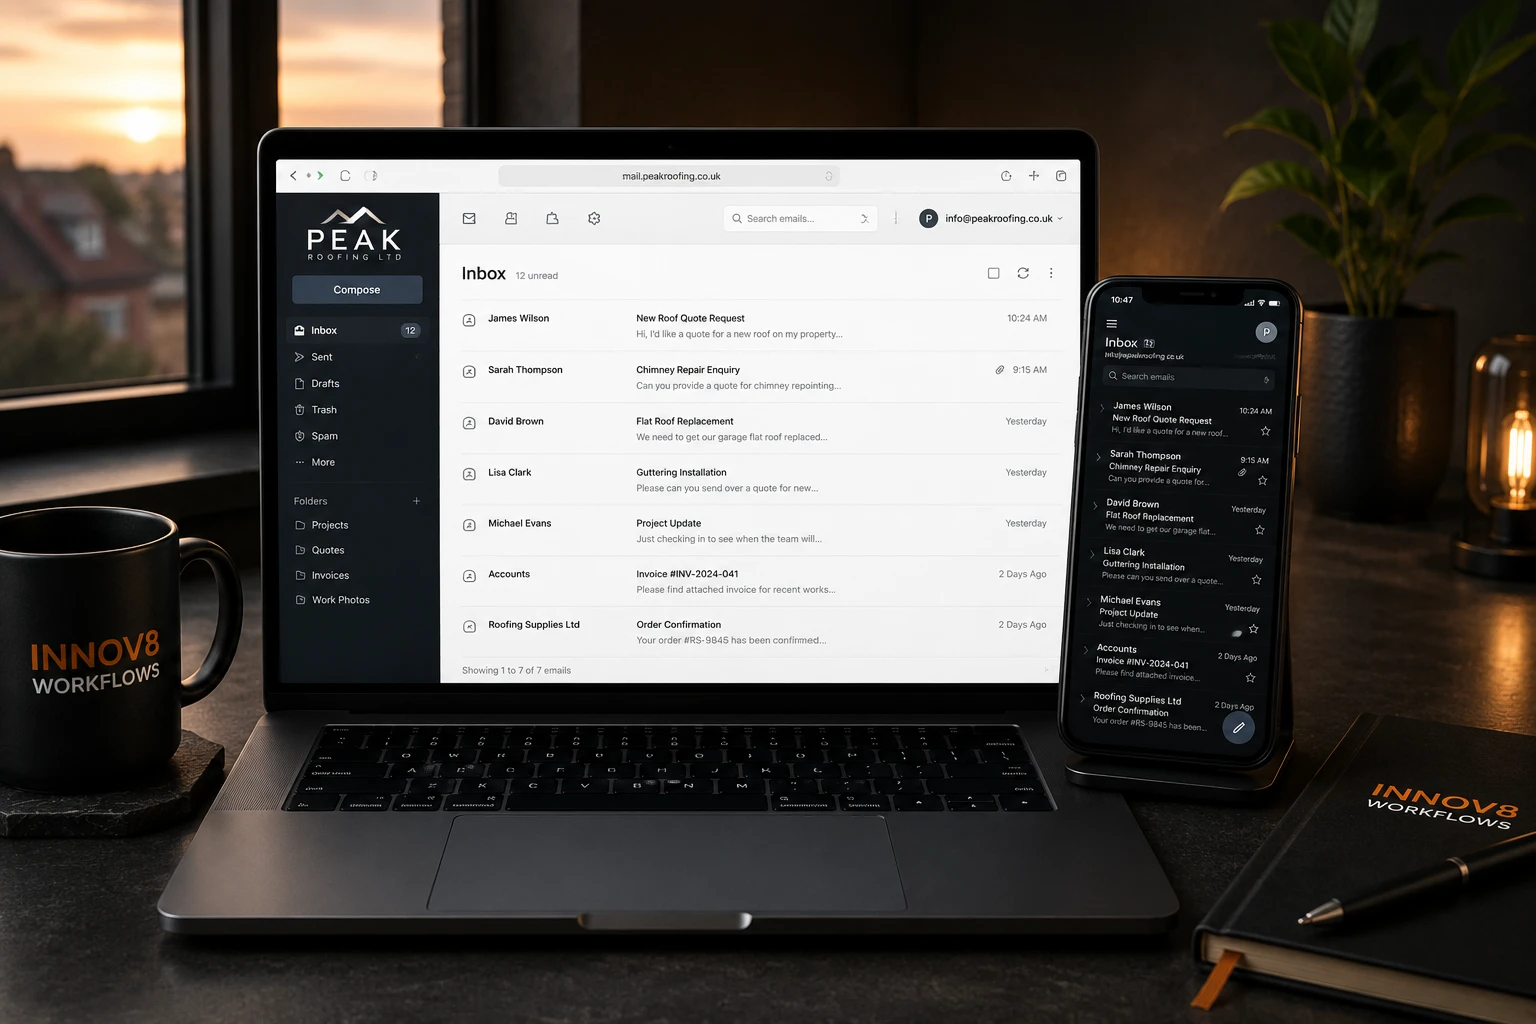
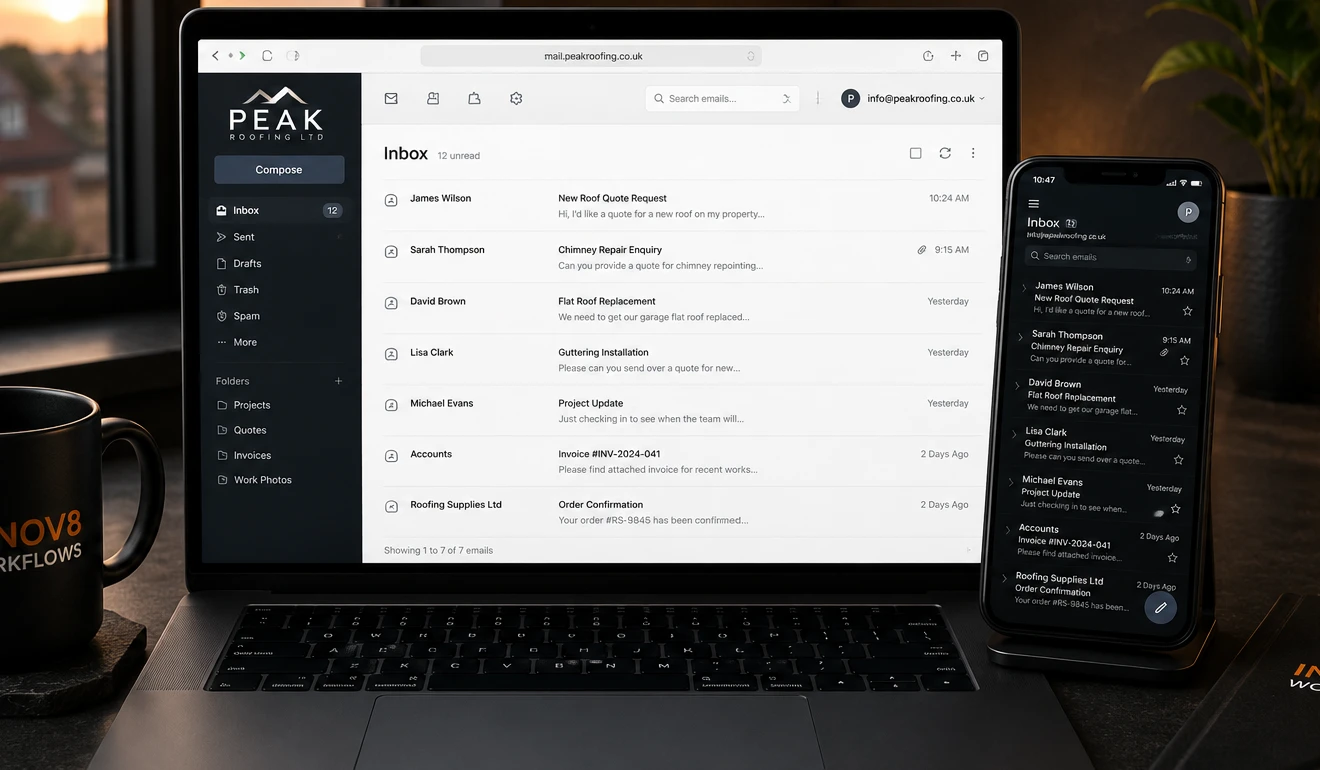
Services: crop email-hosting image so the inbox is readable
Tighten the email-hosting image onto the laptop and phone, cropping out
the wide shot's dead space, so the emails are actually visible at the
block's display size. Re-encoded webp to 1320x770 (102KB); updated the
img width/height to match.

diff --git a/services.html b/services.html
@@ -561,7 +561,7 @@ footer { border-top: 1px solid var(--border); padding: 48px; display: flex; alig
     <a href="consultancy.html#contact" class="service-link">Book a free consultation →</a>
   </div>
   <div class="service-media">
-    <img src="services-media/email-hosting-laptop.webp" width="1536" height="1024" loading="lazy" alt="Professional branded email hosting set up by Innov8 Workflows"/>
+    <img src="services-media/email-hosting-laptop.webp" width="1320" height="770" loading="lazy" alt="Professional branded email hosting set up by Innov8 Workflows"/>
   </div>
 </div>
 
